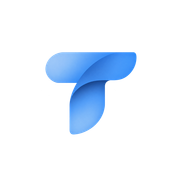
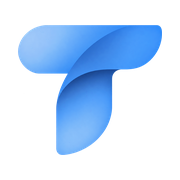
fix(brand): иконки приложений — поля по норме площадки, а не одни на всех
Владелец 10.09: «слишком большие поля белого, иконки смотрятся мелковато…
оцени как лучше (какие поля обычно делают), чтобы было не от края до края,
но и не мелко». Замер: глиф занимал 46–53% холста ВО ВСЕХ размерах разом,
включая фавикон, — отсюда и «мелко».

Поле не одно число, оно зависит от того, кто рисует иконку на экране:
  favicon 16/32 — 94%, на 32 px каждый пиксель на счету;
  PWA 192/512   — 88%, иконка показывается как есть;
  apple-touch   — 80% по сетке Apple, фон непрозрачный (iOS не понимает альфу
                  и подставляет чёрный);
  maskable      — 58%: безопасная зона это КРУГ диаметром 80% холста, куда
                  квадратный глиф вписывается стороной 0.8/√2, иначе лаунчер
                  срежет углы.

Поэтому один кроп руками не годится, и иконки пересобираются скриптом из
исходников: границу глифа считает альфа-канал, срезать лишнего нечем.
Заодно обрезаны белые поля горизонтального лока TherapyGo (занимал 72% ширины).

Changed region(s): [[0.0833, 0.1389, 0.9167, 0.8611]]

diff --git a/apps/webapp/scripts/generate-brand-icons.py b/apps/webapp/scripts/generate-brand-icons.py
@@ -1,0 +1,55 @@
+#!/usr/bin/env python3
+"""Пересборка иконок приложений из брендовых исходников.
+
+Владелец 10.09.2026: «те что сейчас лежат — слишком большие поля белого, иконки смотрятся мелковато…
+оцени как лучше (какие поля обычно делают) чтобы было не от края до края но и не мелко».
+
+Ответ не одно число: поле зависит от того, кто рисует иконку на экране, и именно поэтому один кроп
+руками не годится — из одного и того же глифа нужны РАЗНЫЕ поля. Нормы зашиты в SPECS ниже, каждая
+со своим основанием. Граница глифа считается по альфа-каналу, а не отмеряется на глаз, поэтому
+срезать лишнего физически нечем.
+
+Запуск (из `apps/webapp/public`): python3 ../scripts/generate-brand-icons.py
+"""
+
+from PIL import Image
+import numpy as np
+
+def glyph(path):
+    im = Image.open(path).convert('RGBA')
+    a = np.array(im)
+    ys, xs = np.where(a[..., 3] > 10)
+    return im.crop((xs.min(), ys.min(), xs.max() + 1, ys.max() + 1))
+
+def render(g, size, fill, bg=None):
+    """fill — доля холста, которую занимает САМАЯ ДЛИННАЯ сторона глифа."""
+    target = size * fill
+    scale = target / max(g.size)
+    w, h = max(1, round(g.size[0] * scale)), max(1, round(g.size[1] * scale))
+    small = g.resize((w, h), Image.LANCZOS)
+    canvas = Image.new('RGBA', (size, size), bg if bg else (0, 0, 0, 0))
+    canvas.alpha_composite(small, ((size - w) // 2, (size - h) // 2))
+    return canvas
+
+WHITE = (255, 255, 255, 255)
+# Доли взяты из платформенных правил, а не на глаз:
+#   favicon      — на 16–32 px каждый пиксель на счету, поля почти не нужны;
+#   PWA «any»    — иконка показывается как есть, небольшое поле по краю;
+#   apple-touch  — сетка Apple: содержимое ≈80% холста, фон непрозрачный (iOS игнорирует альфу);
+#   maskable     — безопасная зона Android/PWA это КРУГ диаметром 80% холста, поэтому квадратный
+#                  глиф вписывается стороной ≈0.8/√2≈0.57; берём 0.58 и заливаем фон до края.
+SPECS = [
+    ('favicon-32.png',            32,  0.94, None),
+    ('pwa-icon-192.png',         192,  0.88, None),
+    ('pwa-icon-512.png',         512,  0.88, None),
+    ('pwa-icon-maskable-512.png',512,  0.58, WHITE),
+    ('apple-touch-icon.png',     180,  0.80, WHITE),
+]
+
+for brand, src in (('therapysto', 'brand/therapysto-app-icon-source.png'),
+                   ('therapygo', 'brand/therapygo-app-icon-source.png')):
+    g = glyph(src)
+    for suffix, size, fill, bg in SPECS:
+        out = f'{brand}-{suffix}'
+        render(g, size, fill, bg).save(out, optimize=True)
+        print(f'{out:44s} {size}x{size} fill={fill:.0%} bg={"white" if bg else "transparent"}')
